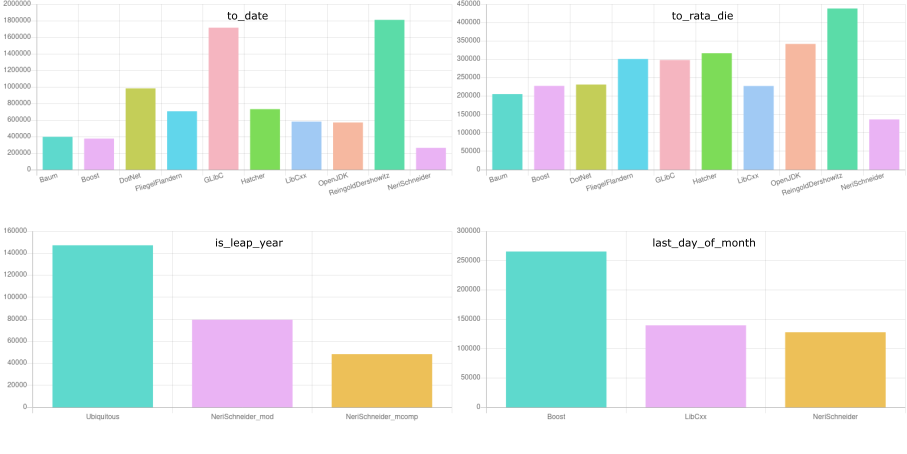
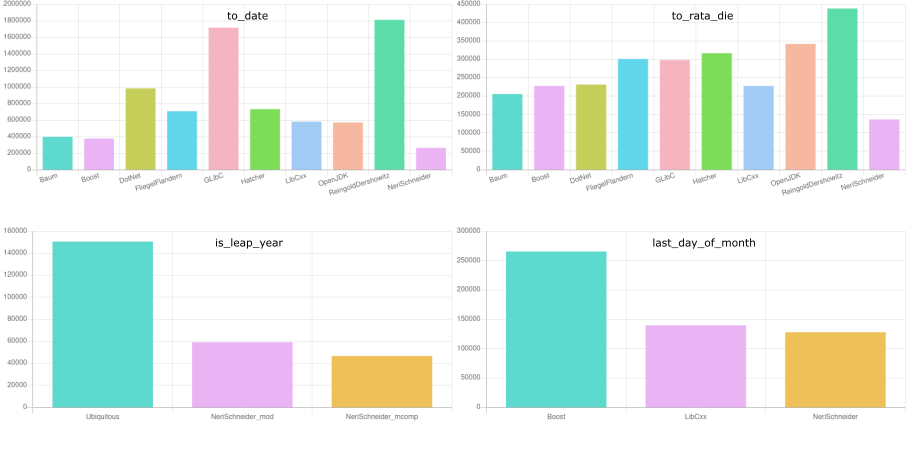
Small improvements.

Changed region(s): [[0.1852, 0.6784, 0.3396, 0.7709], [0.0617, 0.5242, 0.1852, 0.5551], [0.3705, 0.7709, 0.4631, 0.8018]]

diff --git a/benchmarks/is_leap_year.cpp b/benchmarks/is_leap_year.cpp
@@ -28,7 +28,7 @@ namespace neri_schneider::mod {
 // https://github.com/cassioneri/calendar/blob/master/calendar.hpp
 
 bool is_leap_year(year_t year) {
-  return (year % 100 != 0 || year % 400 == 0) & (year % 4 == 0);
+  return (year % 100 != 0 || year % 400 == 0) && (year % 4 == 0);
 }
 }
 
@@ -43,7 +43,7 @@ bool is_multiple_of_100(int32_t n) {
 }
 
 bool is_leap_year(year_t year) {
-  return (!is_multiple_of_100(year) || year % 16 == 0) & (year % 4 == 0);
+  return (!is_multiple_of_100(year) || year % 16 == 0) && (year % 4 == 0);
 }
 }
 

diff --git a/benchmarks/last_day_of_month.cpp b/benchmarks/last_day_of_month.cpp
@@ -38,7 +38,7 @@ bool is_multiple_of_100(int32_t n) {
 }
 
 bool is_leap_year(year_t year) {
-  return (!is_multiple_of_100(year) || year % 16 == 0) & (year % 4 == 0);
+  return (!is_multiple_of_100(year) || year % 16 == 0) && (year % 4 == 0);
 }
 
 day_t last_day_of_month(year_t year, month_t month) {

diff --git a/README.md b/README.md
@@ -41,12 +41,12 @@ considerably faster than others.
 2.5x faster than OpenJDK and
 3.2x faster than ReingoldDershowitz.
 
-[is_leap_year](https://quick-bench.com/q/XaGQzTtRLGNhRSBDAzw4l0T0Xl8): Ubiquitous (the
+[is_leap_year](https://quick-bench.com/q/ZhYkSzwHgnAzCdIGvHRXu2np8WM): Ubiquitous (the
 implementation used virtually everywhere) is
-1.8x slower than NeriSchneider_mod and
-3.0x slower than NeriSchneider_mcomp.
+2.5x slower than NeriSchneider_mod and
+3.2x slower than NeriSchneider_mcomp.
 
-[last_day_of_month](https://quick-bench.com/q/LYFKOSJrbpjVzHmR_EMk8AILkNI): NeriSchneider is
+[last_day_of_month](https://quick-bench.com/q/yZg62AlZGDx1dE8Wv-38qpwHR7c): NeriSchneider is
 2.1x faster than Boost and
 1.1x faster than libc++.
 
